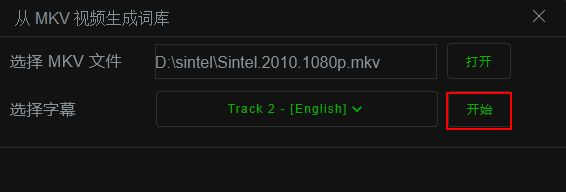
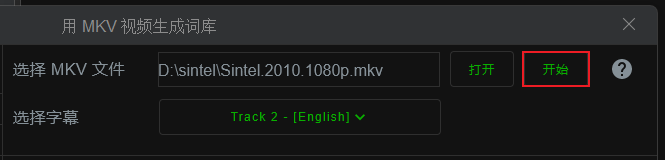
更新内置文档。

diff --git a/src/jvmMain/kotlin/ui/dialog/DocumentDialog.kt b/src/jvmMain/kotlin/ui/dialog/DocumentDialog.kt
@@ -2,6 +2,7 @@ package ui.dialog
 
 import androidx.compose.foundation.*
 import androidx.compose.foundation.layout.*
+import androidx.compose.foundation.shape.CircleShape
 import androidx.compose.foundation.shape.RoundedCornerShape
 import androidx.compose.foundation.text.ClickableText
 import androidx.compose.foundation.text.selection.SelectionContainer
@@ -12,6 +13,7 @@ import androidx.compose.runtime.*
 import androidx.compose.ui.Alignment
 import androidx.compose.ui.ExperimentalComposeUiApi
 import androidx.compose.ui.Modifier
+import androidx.compose.ui.draw.clip
 import androidx.compose.ui.graphics.Color
 import androidx.compose.ui.graphics.RectangleShape
 import androidx.compose.ui.input.pointer.PointerIcon.Companion.Hand
@@ -307,7 +309,11 @@ fun DocumentPage(){
 @Composable
 fun SameSteps(){
     val theme = if(MaterialTheme.colors.isLight) "light" else "dark"
-    Text(frequencyText,modifier = Modifier.padding(start = 20.dp))
+    Row(Modifier.fillMaxWidth().height(IntrinsicSize.Max).padding(top = 10.dp)){
+        Spacer(Modifier.width(3.dp).height(180.dp).background(Color.Red))
+        Text(frequencyText,modifier = Modifier.padding(start = 10.dp,bottom = 5.dp))
+    }
+
     Text("\n2. 在左边的预览区可以看到程序生成的单词。你可以点击左边的过滤词频顺序为0的词，\n" +
             "    词频为 0 的词包括简单的字母和数字还有一些没有收录进词频顺序的生僻词。\n")
     Column {
@@ -390,7 +396,21 @@ fun SubtitlesPage(){
         val stateVertical = rememberScrollState(0)
         Column (Modifier.padding(start = 16.dp, top = 16.dp,end = 16.dp).verticalScroll(stateVertical)){
             val theme = if(MaterialTheme.colors.isLight) "light" else "dark"
-            Text("从字幕生成的词库，每个单词最多匹配三条字幕。\n")
+            Row(Modifier.fillMaxWidth().height(IntrinsicSize.Max)){
+                Spacer(Modifier.width(3.dp).height(90.dp).background(Color.Red))
+                Column (Modifier.padding(start = 10.dp,top = 10.dp)){
+
+                    Text(text = "• 使用字幕生成的词库，每个单词最多匹配三条字幕。", fontWeight = FontWeight.Bold,)
+                    Row(modifier = Modifier.padding(top = 5.dp)){
+                        Text("• ", fontWeight = FontWeight.Bold)
+                        Text(text = "生成词库并没有切割视频，生成词库后不要移动视频的位置或重命名视频，如果移动或重命名了视频，播放视频时会发生错误，只能重新再生成一次。",
+                            fontWeight = FontWeight.Bold)
+                    }
+
+
+                }
+            }
+
             Text("\n1. 打开从字幕生成词库窗口,然后选择 SRT 字幕，也可以拖放文件到窗口快速打开，\n" +
                     "    如果有对应的视频，就选择对应的视频，然后点击分析按钮。[1]\n")
             Image(
@@ -440,13 +460,28 @@ fun MatroskaPage(){
         val stateVertical = rememberScrollState(0)
         Column (Modifier.padding(start = 16.dp, top = 16.dp,end = 16.dp).verticalScroll(stateVertical)){
             val theme = if(MaterialTheme.colors.isLight) "light" else "dark"
-            Text("从 MKV 生成的词库，每个单词最多匹配三条字幕。\n")
+            Row(Modifier.fillMaxWidth().height(IntrinsicSize.Max)){
+                Spacer(Modifier.width(3.dp).height(90.dp).background(Color.Red))
+                Column (Modifier.padding(start = 10.dp,top = 10.dp)){
+                    Text(text = "• 使用 MKV 视频生成的词库，每个单词最多匹配三条字幕。",
+                        fontWeight = FontWeight.Bold)
+                    Row(modifier = Modifier.padding(top = 5.dp)){
+                        Text("• ", fontWeight = FontWeight.Bold)
+                        Text(text = "生成词库并没有切割视频，生成词库后不要移动视频的位置或重命名视频，如果移动或重命名了视频，播放视频时会发生错误，只能重新再生成一次。",
+                            fontWeight = FontWeight.Bold,)
+                    }
+
+                }
+            }
+
+
+
             Text("\n1. 打开从 MKV 生成词库窗口,然后选择 MKV 视频，也可以拖放文件到窗口快速打开，（最新版支持批量生成词库）\n" +
                     "    然后点击开始按钮。[1]\n")
             Image(
                 painter = painterResource("screenshot/mkv-$theme/MKV-1.png"),
                 contentDescription = "mkv-step-1",
-                modifier = Modifier.width(588.dp).height(192.dp).padding(start = 20.dp)
+                modifier = Modifier.width(685.dp).height(192.dp).padding(start = 20.dp)
                     .border(border = BorderStroke(1.dp, MaterialTheme.colors.onSurface.copy(alpha = 0.12f)))
             )
             SameSteps()
